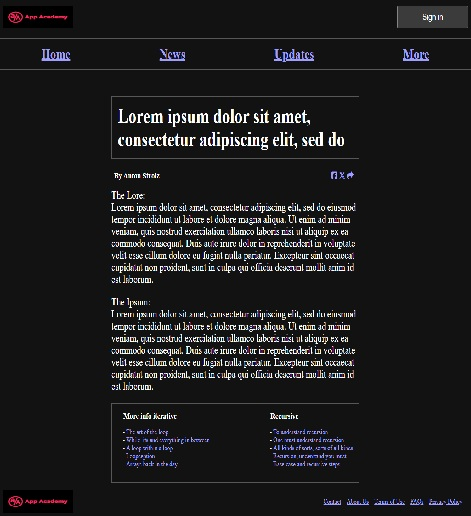
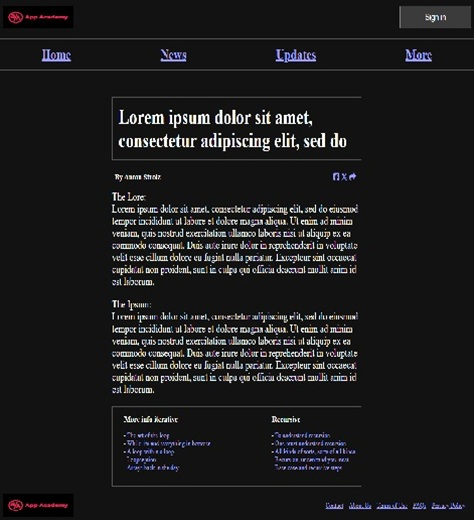
feat: complete project structure and begin CSS design
- updated planning.md with completed site structure
- updated planning.md with basic design layout
- removed main image element and designed as background on about-me.html
- assigned nav bar visual location across all
- updated contact-me.html title to "Contact" and updated nav link
- designed nav bar with image and linked across all
- removed legend from contact-me.html form
- added font "Limelight" and applied to nav and h1 elements
- updated about-me.html paragraph and removed "The Vibe" Title
- redesigned global background design and removed nav image
- moved nav bar to a clean, fixed upper righthand position and linked across all

chore: complete about-me.html and move into gallery.html design

diff --git a/about-me.html b/about-me.html
@@ -5,33 +5,29 @@
         <title>Welcome</title>
         <link rel="icon" type="image/png" href="images/deployed_code_history_24dp_E3E3E3_FILL0_wght400_GRAD0_opsz24.png">
         <link rel="stylesheet" href="css/style.css">
+        <link rel="preconnect" href="https://fonts.googleapis.com">
+        <link rel="preconnect" href="https://fonts.gstatic.com" crossorigin>
+        <link href="https://fonts.googleapis.com/css2?family=Limelight&display=swap" rel="stylesheet">
     </head>
     <body>
         <nav>
-            <a href="about-me.html">Home</a>
-            <a href="gallery.html">Gallery</a>
-            <a href="inspirations.html">Inspirations</a>
-            <a href="contact-me.html">Contact Me</a>
+            <a class="nav__link" href="about-me.html">Home</a>
+            <a class="nav__link" href="gallery.html">Gallery</a>
+            <a class="nav__link" href="inspirations.html">Inspirations</a>
+            <a class="nav__link" href="contact-me.html">Contact</a>
         </nav>
 
-        <header>
-            <h1>front__end-dev (earlyAccess)</h1>
+        <header class="home--header">
+            <h1>Hi I'm Anton</h1>
+            <h2>a front__end-dev in (earlyAccess)</h2>
         </header>
         
-        <div class="image">
-            <img src="images/coding-three.jpg" alt="">
-        </div>
-        
         <div class="main">
-            <div class="main__info">
-                <h2>The Vibe</h2>
-                <p>Hi I'm Anton - a front-end dev with a flair for design and small business solutions. If you can dream it I can build it, and look forward to tackling any project!</p>
+            <div class="main__info main__info--top">
+                <h2>Welcome to my coding journey</h2>
+                <p>For now, my world is front-end as I push toward something greater. With dreams of becoming a full-stack software engineer my mission is to code everyday non stop for one year! Over the next this site will exand and develop with my skillset in real time. Today design, tomorrow architecture!</p>
             </div>
-            <div class="main__info">
-                <h2>Aspirations</h2>
-                <p>For now, my world is front-end as I push toward something greater. With dreams of becoming a full-stack software engineer my AI companion will tell you I never stop. Today design, tomorrow architecture!</p>
-            </div>
-            <div class="main__info">
+            <div class="main__info main__info--bottom">
                 <h2>Actively Coding</h2>
                 <p>Currelty I am immersed in HTML, CSS and basic Javascript, leveling up everyday. Coding isn't just my work - it's my passion.</p>                    
             </div>

diff --git a/contact-me.html b/contact-me.html
@@ -2,25 +2,28 @@
 <html>
     <head>
         <meta charset="UTF-8">
-        <title>Comtact Me</title>
+        <title>Contact</title>
         <link rel="icon" type="image/png" href="images/deployed_code_history_24dp_E3E3E3_FILL0_wght400_GRAD0_opsz24.png">
         <link rel="stylesheet" href="css/style.css">
         <link rel="stylesheet" href="css/contact.css">
+        <link rel="preconnect" href="https://fonts.googleapis.com">
+        <link rel="preconnect" href="https://fonts.gstatic.com" crossorigin>
+        <link href="https://fonts.googleapis.com/css2?family=Limelight&display=swap" rel="stylesheet">
     </head>
 
     <body>
         <header>
             <nav>
-                <a href="about-me.html">Home</a>
-                <a href="gallery.html">Gallery</a>
-                <a href="inspirations.html">Inspirations</a>
-                <a href="contact-me.html">Contact Me</a>
+            <a class="nav__link" href="about-me.html">Home</a>
+            <a class="nav__link" href="gallery.html">Gallery</a>
+            <a class="nav__link" href="inspirations.html">Inspirations</a>
+            <a class="nav__link" href="contact-me.html">Contact</a>
             </nav>
         </header>
+        
         <div class="page">
             <form class="form" action="mailto:tonystrolz@gmail.com" method="post" enctype="text/plain">
                 <fieldset class="form__section">
-                    <legend>Shoot me a message!</legend>
                     <div class="form__group">
                         <label for="firstName" class="form__label">First Name:</label>
                         <input type="text" class="form__input" id="firstName" name="first_name">

diff --git a/gallery.html b/gallery.html
@@ -5,15 +5,17 @@
         <title>Gallery</title>
         <link rel="icon" type="image/png" href="images/deployed_code_history_24dp_E3E3E3_FILL0_wght400_GRAD0_opsz24.png">
         <link rel="stylesheet" href="css/style.css">
+        <link rel="preconnect" href="https://fonts.googleapis.com">
+        <link rel="preconnect" href="https://fonts.gstatic.com" crossorigin>
+        <link href="https://fonts.googleapis.com/css2?family=Limelight&display=swap" rel="stylesheet">
     </head>
-    <body>
-        
+    <body>   
         <header>
             <nav>
-                <a href="about-me.html">Home</a>
-                <a href="gallery.html">Gallery</a>
-                <a href="inspirations.html">Inspirations</a>
-                <a href="contact-me.html">Contact Me</a>
+            <a class="nav__link" href="about-me.html">Home</a>
+            <a class="nav__link" href="gallery.html">Gallery</a>
+            <a class="nav__link" href="inspirations.html">Inspirations</a>
+            <a class="nav__link" href="contact-me.html">Contact</a>
             </nav>
         </header>
 

diff --git a/inspirations.html b/inspirations.html
@@ -5,14 +5,17 @@
         <title>Inspirations</title>
         <link rel="icon" type="image/png" href="images/deployed_code_history_24dp_E3E3E3_FILL0_wght400_GRAD0_opsz24.png">
         <link rel="stylesheet" href="css/style.css">
+        <link rel="preconnect" href="https://fonts.googleapis.com">
+        <link rel="preconnect" href="https://fonts.gstatic.com" crossorigin>
+        <link href="https://fonts.googleapis.com/css2?family=Limelight&display=swap" rel="stylesheet">
     </head>
     <body>
         <header>
             <nav>
-                <a href="about-me.html">Home</a>
-                <a href="gallery.html">Gallery</a>
-                <a href="inspirations.html">Inspirations</a>
-                <a href="contact-me.html">Contact Me</a>
+            <a class="nav__link" href="about-me.html">Home</a>
+            <a class="nav__link" href="gallery.html">Gallery</a>
+            <a class="nav__link" href="inspirations.html">Inspirations</a>
+            <a class="nav__link" href="contact-me.html">Contact</a>
             </nav>
         </header>
 

diff --git a/css/style.css b/css/style.css
@@ -1,0 +1,59 @@
+
+html {
+    background-image: url("../images/treebkgrd.jpg");
+    background-repeat: no-repeat;
+    background-size: auto;
+    background-position: center
+}
+
+.page {
+    margin: 0 auto;
+    width: 100%;
+}
+
+body {
+    background-image: url("../images/treebkgrd.jpg");
+    background-repeat: no-repeat;
+    background-size: auto;
+    background-position: center;
+}
+
+nav {
+    display: flex;
+    justify-content: end;
+    font-size: x-large;
+    color: aliceblue;
+    font-family: "Limelight"
+}
+
+.nav__link {
+    text-decoration: none;
+    margin-right: 1rem;
+}
+
+.nav__link:visited {
+    color: aliceblue;
+}
+
+
+.home--header {
+    justify-items: center;
+    color: aliceblue;
+    font-family: "Limelight";
+    font-size: 25px;
+}
+
+.main {
+    display: flex;
+    flex-direction: column;
+    justify-content: flex-end;
+    color: aliceblue;
+    gap: 2rem;
+}
+
+.main__info {
+    text-align: center;
+    background-color: rgb(169, 162, 189);
+    border-radius: 20px 20px 20px 20px;
+    padding: 1.5rem;
+}

diff --git a/css/contact.css b/css/contact.css
@@ -1,18 +1,10 @@
-html {
-    font-size: 20px;
-}
-
-.page {
-    min-height: 100vh;
-    display: flex;
-    align-items: center;
-    justify-content: center;
-}
 
 .form {
     width: 600px;
     margin: 0 auto;
     padding: 1rem;
+    margin-top: 25rem;
+    color: aliceblue;
 }
 
 legend {

diff --git a/planning.md b/planning.md
@@ -10,7 +10,7 @@ Page 4: Contact Me
 ---------------------------------
 Page 1: About Me - Front-End Developer (Early Career)
 
-- Nav Bar
+- Nav Bar w/ images/coding-two.jpg
 - Header, Centered and clean in xlarge font size 
 - Main Hero Picture 
 - Horizontal text boxes - The Vibe / Aspirations / Actively Coding
@@ -22,7 +22,7 @@ Page 2: Gallery / Projects
 /* Find clean background and keep page simple and artistic */
 /* Research cool CSS animations when hovering
 
-- Nav Bar
+- Nav Bar w/ images/coding-two.jpg
 - Grid: 2 rows to columns 4 ever photos linking to 4 pages I have created 
 - Image Pixels : 474x520
 
@@ -32,7 +32,7 @@ Page 3: Inspirations - Philosophical and other
 
 /* Research 2 pivotal programers from history and add to inspirations */
 
-- Nav Bar
+- Nav Bar w/ images/coding-two.jpg
 - 2 columns, each starting vertically with a photo of the inspiration 
 - Each column will have a short paragraph describing my inspiration
 
@@ -49,3 +49,5 @@ Page 4: Contact Me
 
 /* Set stylish background
 /* Standard form 
+
+- Nav Bar w/ images/coding-two.jpg
